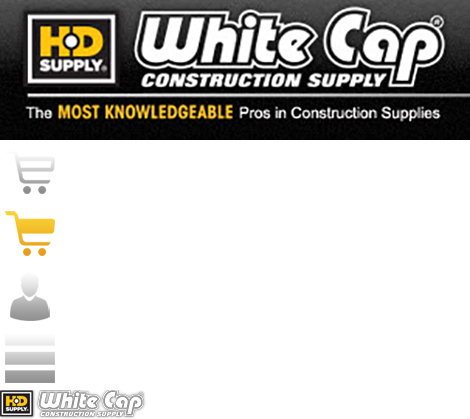
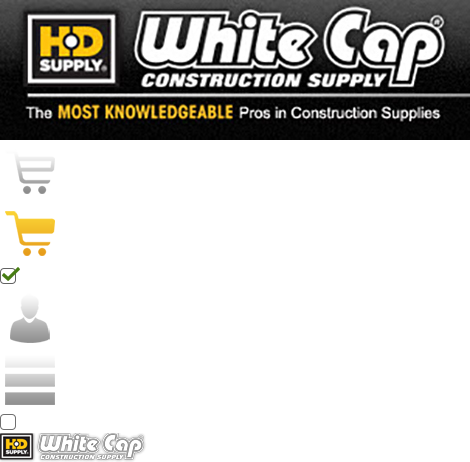
Defect Fixes
2500
2502

Changed region(s): [[0.0, 0.0, 1.0, 0.6205], [0.0, 0.8067, 0.3277, 1.0], [0.0, 0.6826, 0.1191, 0.7757]]

diff --git a/assets/stylesheets/globals/_Icons.scss b/assets/stylesheets/globals/_Icons.scss
@@ -1,7 +1,7 @@
 $Icons-url: url("/_moovweb_local_assets_/images/Icons.png");
 
 $Icons-width: 470px;
-$Icons-height: 419px;
+$Icons-height: 462px;
 
 $Icons-HDSupply-Logo-x: 0px;
 $Icons-HDSupply-Logo-y: 0px;
@@ -18,99 +18,133 @@ $Icons-cart-full-y: -102px;
 $Icons-cart-full-width: 30px;
 $Icons-cart-full-height: 30px;
 
+$Icons-check-x: 0px;
+$Icons-check-y: -266px;
+$Icons-check-width: 20px;
+$Icons-check-height: 20px;
+
 $Icons-male_user-x: 0px;
-$Icons-male_user-y: -133px;
+$Icons-male_user-y: -144px;
 $Icons-male_user-width: 30px;
 $Icons-male_user-height: 30px;
 
 $Icons-menu-x: 0px;
-$Icons-menu-y: -164px;
+$Icons-menu-y: -175px;
 $Icons-menu-width: 30px;
 $Icons-menu-height: 30px;
 
+$Icons-uncheck-x: 0px;
+$Icons-uncheck-y: -412px;
+$Icons-uncheck-width: 20px;
+$Icons-uncheck-height: 20px;
+
 $Icons-white-cap-logo-no-tagline-x: 0px;
-$Icons-white-cap-logo-no-tagline-y: -390px;
+$Icons-white-cap-logo-no-tagline-y: -433px;
 $Icons-white-cap-logo-no-tagline-width: 147px;
 $Icons-white-cap-logo-no-tagline-height: 29px;
 
 @mixin Icons-HDSupply-Logo() {
   background: url("/_moovweb_local_assets_/images/Icons.png") no-repeat 0px 0px;
-  @include background-size(235px 209.5px);
+  @include background-size(235px 231px);
   width: 235px;
   height: 70px;
 }
 
 @mixin Icons-cart-empty() {
   background: url("/_moovweb_local_assets_/images/Icons.png") no-repeat 0px -71px;
-  @include background-size(235px 209.5px);
+  @include background-size(235px 231px);
   width: 30px;
   height: 30px;
 }
 
 @mixin Icons-cart-full() {
   background: url("/_moovweb_local_assets_/images/Icons.png") no-repeat 0px -102px;
-  @include background-size(235px 209.5px);
+  @include background-size(235px 231px);
   width: 30px;
   height: 30px;
 }
 
+@mixin Icons-check() {
+  background: url("/_moovweb_local_assets_/images/Icons.png") no-repeat 0px -266px;
+  width: 20px;
+  height: 20px;
+}
+
 @mixin Icons-male_user() {
-  background: url("/_moovweb_local_assets_/images/Icons.png") no-repeat 0px -133px;
-  @include background-size(235px 209.5px);
+  background: url("/_moovweb_local_assets_/images/Icons.png") no-repeat 0px -144px;
+  @include background-size(235px 231px);
   width: 30px;
   height: 30px;
 }
 
 @mixin Icons-menu() {
-  background: url("/_moovweb_local_assets_/images/Icons.png") no-repeat 0px -164px;
-  @include background-size(235px 209.5px);
+  background: url("/_moovweb_local_assets_/images/Icons.png") no-repeat 0px -175px;
+  @include background-size(235px 231px);
   width: 30px;
   height: 30px;
 }
 
+@mixin Icons-uncheck() {
+  background: url("/_moovweb_local_assets_/images/Icons.png") no-repeat 0px -412px;
+  width: 20px;
+  height: 20px;
+}
+
 @mixin Icons-white-cap-logo-no-tagline() {
-  background: url("/_moovweb_local_assets_/images/Icons.png") no-repeat 0px -390px;
+  background: url("/_moovweb_local_assets_/images/Icons.png") no-repeat 0px -433px;
   width: 147px;
   height: 29px;
 }
 
 .Icons-HDSupply-Logo {
   background: url("/_moovweb_local_assets_/images/Icons.png") no-repeat 0px 0px;
-  background-size: 235px 209.5px;
+  background-size: 235px 231px;
   width: 235px;
   height: 70px;
 }
 
 .Icons-cart-empty {
   background: url("/_moovweb_local_assets_/images/Icons.png") no-repeat 0px -71px;
-  background-size: 235px 209.5px;
+  background-size: 235px 231px;
   width: 30px;
   height: 30px;
 }
 
 .Icons-cart-full {
   background: url("/_moovweb_local_assets_/images/Icons.png") no-repeat 0px -102px;
-  background-size: 235px 209.5px;
+  background-size: 235px 231px;
   width: 30px;
   height: 30px;
 }
 
+.Icons-check {
+  background: url("/_moovweb_local_assets_/images/Icons.png") no-repeat 0px -266px;
+  width: 20px;
+  height: 20px;
+}
+
 .Icons-male_user {
-  background: url("/_moovweb_local_assets_/images/Icons.png") no-repeat 0px -133px;
-  background-size: 235px 209.5px;
+  background: url("/_moovweb_local_assets_/images/Icons.png") no-repeat 0px -144px;
+  background-size: 235px 231px;
   width: 30px;
   height: 30px;
 }
 
 .Icons-menu {
-  background: url("/_moovweb_local_assets_/images/Icons.png") no-repeat 0px -164px;
-  background-size: 235px 209.5px;
+  background: url("/_moovweb_local_assets_/images/Icons.png") no-repeat 0px -175px;
+  background-size: 235px 231px;
   width: 30px;
   height: 30px;
 }
 
+.Icons-uncheck {
+  background: url("/_moovweb_local_assets_/images/Icons.png") no-repeat 0px -412px;
+  width: 20px;
+  height: 20px;
+}
+
 .Icons-white-cap-logo-no-tagline {
-  background: url("/_moovweb_local_assets_/images/Icons.png") no-repeat 0px -390px;
+  background: url("/_moovweb_local_assets_/images/Icons.png") no-repeat 0px -433px;
   width: 147px;
   height: 29px;
 }

diff --git a/scripts/pages/login.ts b/scripts/pages/login.ts
@@ -35,6 +35,8 @@ $("/html/body"){
 			insert_before("div", class: "_userInfo", "My Info"){
 
 			}
+
+
 		}
 		$("./div[@class='_userInfo']"){
 			attributes(data-ur-toggler-component: "button")
@@ -126,6 +128,12 @@ $("//div[@class='body']"){
 		}
 		$("./div[@class='content']"){
 			attributes(data-ur-toggler-component: "content")
+		}
+	}
+	$("./p[@class='myaccount_desc']"){
+		insert_after("div", class: "_speedBuildContainer"){
+			insert_top("h3", class: "_speedBuildTitle", "SpeedBuild")
+			insert("a", href: "javaScript:setCurrentId('requisitionList');MyAccountDisplay.loadContentFromURL('requisitionList', 'https://"+$host+"/webapp/wcs/stores/servlet/AjaxRequisitionListDisplayView?currentSelection=requisitionListSlct&catalogId=11101&langId=-1&storeId=11301');MyAccountDisplay.changeSelection('https://"+$host+"/webapp/wcs/stores/servlet/AjaxRequisitionListDisplayView?currentSelection=requisitionListSlct&catalogId=11101&langId=-1&storeId=11301');", id: "requisitionList", "View Your Lists")
 		}
 	}
 	$("./div[@class='checkout-container']"){

diff --git a/scripts/pages/accountSummary.ts b/scripts/pages/accountSummary.ts
@@ -54,6 +54,12 @@ $$(".body"){
 		}
 
 	}
+	$("./p[@class='myaccount_desc']"){
+		insert_after("div", class: "_speedBuildContainer"){
+			insert_top("h3", class: "_speedBuildTitle", "SpeedBuild")
+			insert("a", href: "javaScript:setCurrentId('requisitionList');MyAccountDisplay.loadContentFromURL('requisitionList', 'https://"+$host+"/webapp/wcs/stores/servlet/AjaxRequisitionListDisplayView?currentSelection=requisitionListSlct&catalogId=11101&langId=-1&storeId=11301');MyAccountDisplay.changeSelection('https://"+$host+"/webapp/wcs/stores/servlet/AjaxRequisitionListDisplayView?currentSelection=requisitionListSlct&catalogId=11101&langId=-1&storeId=11301');", id: "requisitionList", "View Your Lists")
+		}
+	}
 }
 
 $("//div[@id='OrderStatusTableDisplay_div_1']"){

diff --git a/assets/stylesheets/pages/_loggedIn.scss b/assets/stylesheets/pages/_loggedIn.scss
@@ -47,6 +47,20 @@
 					}
 				}
 				.body{
+					._speedBuildContainer {
+						height: 60px;
+						margin-left: 10px;
+						margin-right: 10px;
+						._speedBuildTitle{
+							border-bottom: 2px solid #fc0;
+							margin-bottom: 2px;
+						}
+						a{
+							color: #777;
+							text-decoration: underline;
+							padding-left: 10px;
+						}
+					}
 					padding: 5px;
 					.checkout-container{
 						overflow: hidden;
@@ -55,7 +69,12 @@
 							padding: 10px;
 							margin: 0 15px;
 							.info{
-								a{
+								.btn{
+									margin-bottom: 5px;
+								}
+								.myaccount_link{
+									color: #777;
+									text-decoration: underline;
 									margin-top: 5px;
 								}
 							}

diff --git a/assets/stylesheets/pages/_AjaxRequisitionListCreateView.scss b/assets/stylesheets/pages/_AjaxRequisitionListCreateView.scss
@@ -108,15 +108,11 @@
 						display: none;
 					}
 					._checkbox + label{
-						background: url("/_moovweb_local_assets_/images/checkbox.png") no-repeat 0px -21px;
-						width: 20px;
-						height: 20px;
+						@include Icons-uncheck();
 
 					}
 					._checkbox:checked + label{
-						background: url("/_moovweb_local_assets_/images/checkbox.png") no-repeat 0px 0px;
-						width: 20px;
-						height: 20px;
+						@include Icons-check();
 					}
 
 				}

diff --git a/scripts/pages/emailModalView.ts b/scripts/pages/emailModalView.ts
@@ -6,6 +6,9 @@ $("//div[@id='email_modal_dialog']"){
 		attributes(style: "text-align: left;")
 	}
 	$(".//div[@class='email_input_box']/form"){
+		$("./span[@class='error_msg']"){
+			insert_after("br")
+		}
 		$("./input"){
 			attributes(style: "width: 140px !important; margin-bottom: 10px;", class: "_popinput")
 		}

diff --git a/scripts/mappings.ts b/scripts/mappings.ts
@@ -1,5 +1,4 @@
 /*
-<<<<<<< HEAD
 	Mappings
 
 	Mappings are matchers that we use to determine if we should execute a
